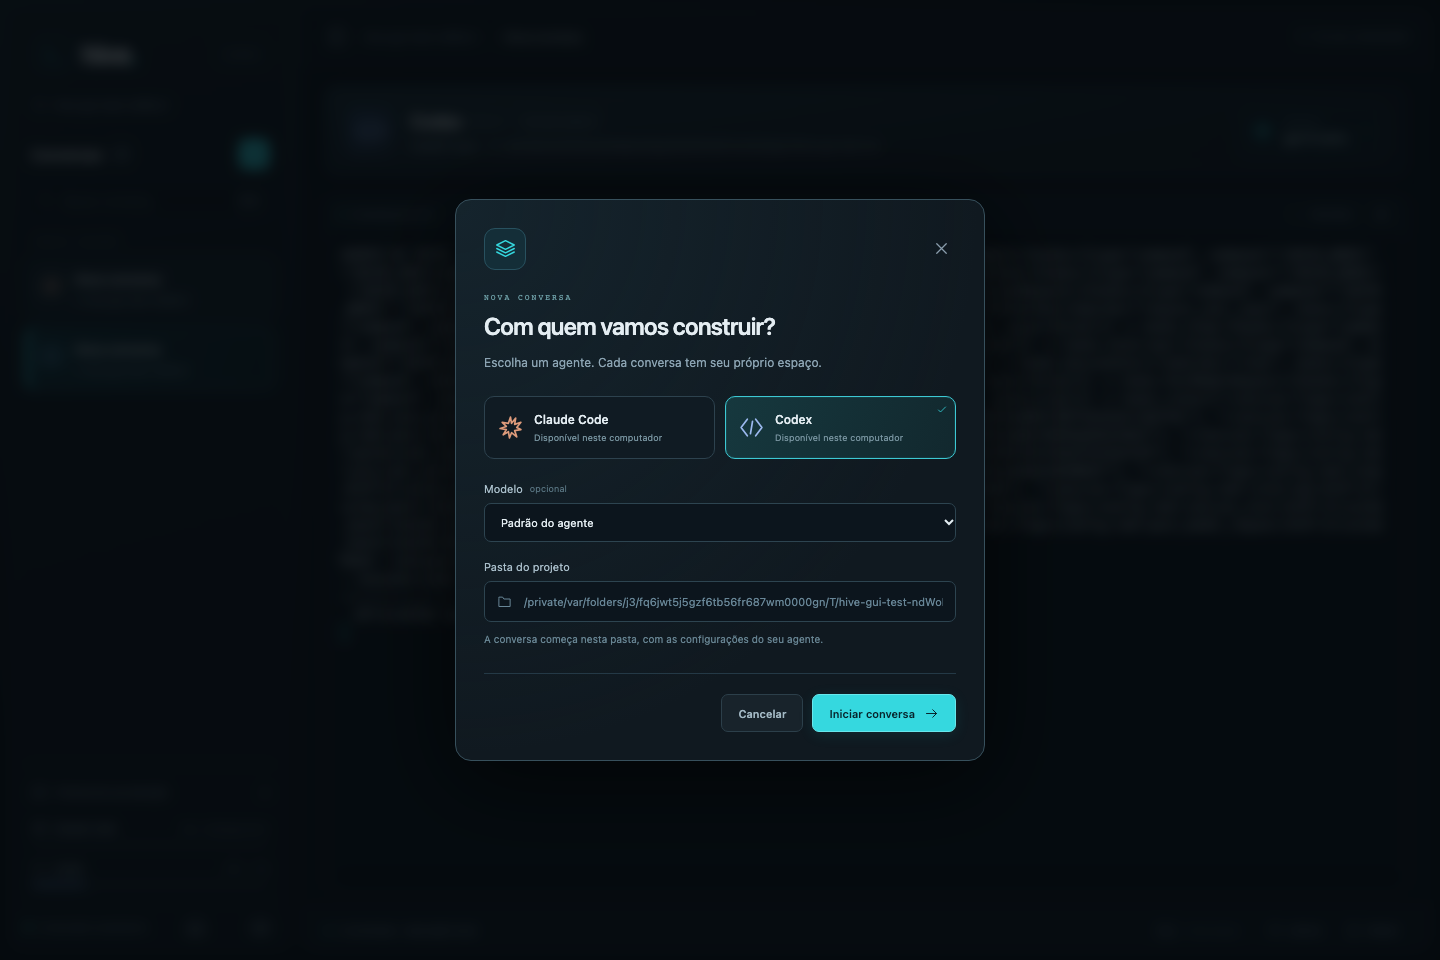
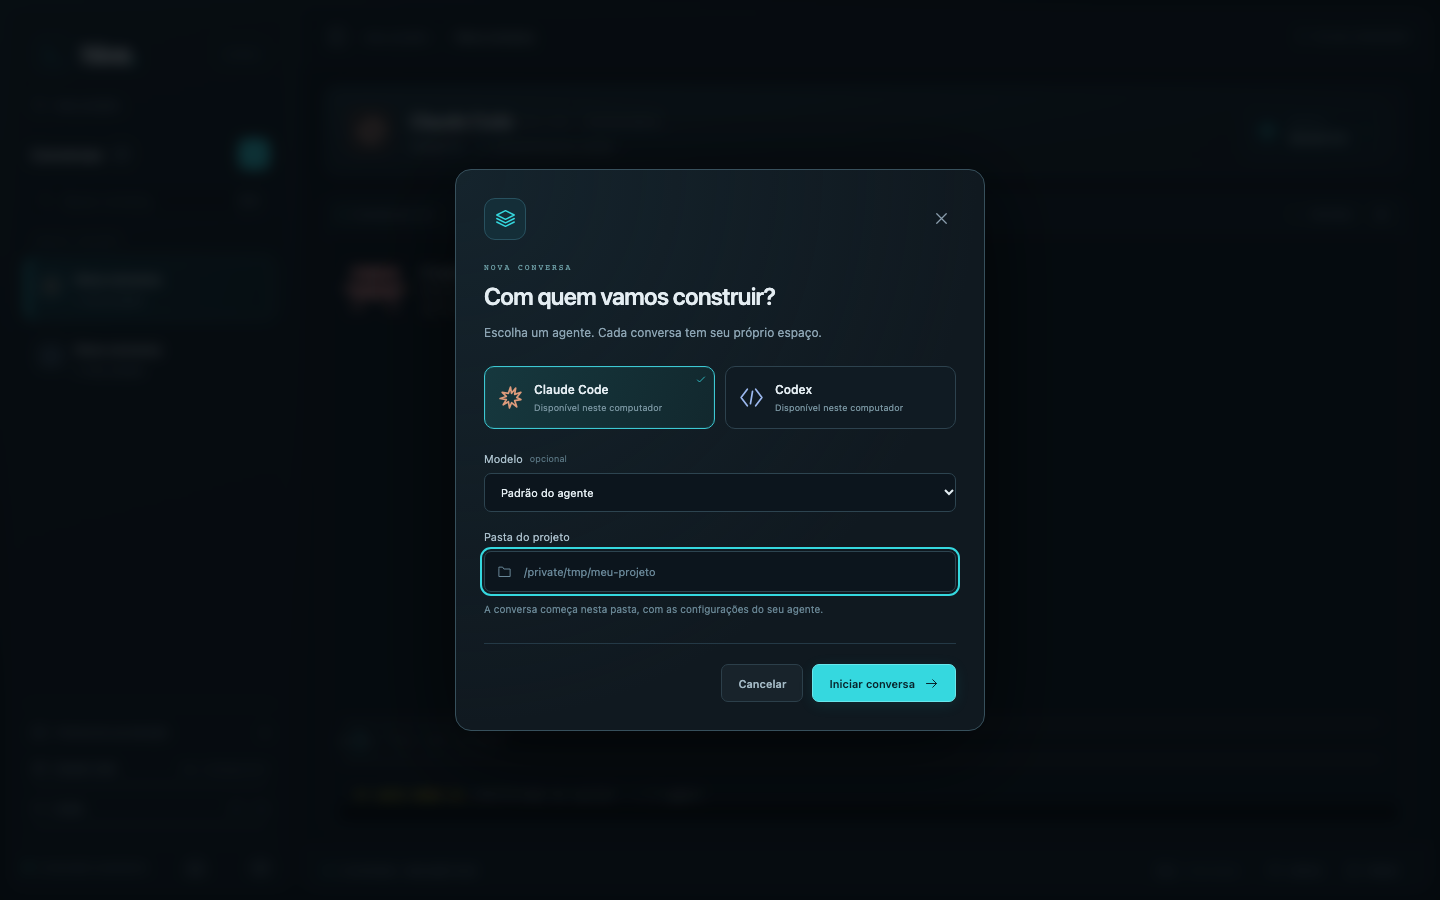
docs: troque as imagens do README por capturas da interface atual

Changed region(s): [[0.3125, 0.1867, 0.6562, 0.6844], [0.5, 0.7156, 0.6875, 0.8089], [0.625, 0.4667, 0.6562, 0.4978]]

diff --git a/test/gui/workspace.spec.js b/test/gui/workspace.spec.js
@@ -48,7 +48,6 @@ test('interface gráfica conecta agentes, preserva rascunho e troca modelos', as
 	await expect(page.getByText('Conectado localmente')).toBeVisible();
 	await expect(page.getByRole('heading', {name: 'Nenhuma conversa aberta'})).toBeVisible();
 	await expect(page.locator('#usage')).toContainText('Claude Code');
-	await page.screenshot({path: join(root, 'docs/gui-inicio.png')});
 	await page.getByRole('button', {name: 'Nova conversa', exact: true}).first().click();
 	await expect(page.getByRole('dialog')).toBeVisible();
 	await expect(page.getByLabel('Pasta do projeto', {exact: true})).toHaveValue(pasta);
@@ -98,9 +97,7 @@ test('interface gráfica conecta agentes, preserva rascunho e troca modelos', as
 		expect(execFileSync('tmux', ['-L', `hive-gui-${servidor.pid}`, 'list-panes', '-a', '-F', '#{pane_id} #{pane_pid} #{pane_current_path}'], {encoding: 'utf8'})).toBe(panesAntes);
 	}
 	await page.locator('.conversation-card').first().click();
-	await page.screenshot({path: join(root, 'docs/gui-conversa.png')});
 	await page.getByRole('button', {name: 'Nova conversa', exact: true}).first().click();
-	await page.screenshot({path: join(root, 'docs/gui-agentes.png')});
 	await page.keyboard.press('Escape');
 	await fetch(`${origin}/api/conversations`, {method: 'POST', headers: {Authorization: `Bearer ${key}`, 'Content-Type': 'application/json'}, body: JSON.stringify({agente: 'claude', pasta})});
 	await expect(page.locator('.conversation-card')).toHaveCount(3);
@@ -285,7 +282,6 @@ test('a interface abre em uma janela própria e o terminal funciona nela', async
 		await janela.locator('.xterm-helper-textarea').focus();
 		await janela.keyboard.type('janela-local-funcionando');
 		await expect(janela.locator('#terminal .xterm-screen')).toContainText('janela-local-funcionando');
-		await janela.screenshot({path: join(root, 'docs/gui-aplicativo.png')});
 	} finally { await aplicativo.close(); }
 });
 

diff --git a/README.md b/README.md
@@ -2,7 +2,7 @@
 
 Interface local para o [Claude Code](https://claude.com/claude-code) e o [Codex](https://github.com/openai/codex): uma janela própria com a lista de conversas ao lado, o terminal real de cada agente no centro, troca de modelo, ditado e leitura em voz alta. O visual e várias funções se inspiram no [workmux](https://github.com/raine/workmux).
 
-![Três conversas: uma esperando resposta, uma pronta e uma trabalhando; troca entre elas pela barra lateral](docs/demo.gif)
+![Hive com uma conversa do Claude Code e outra do Codex na barra lateral](docs/gui-conversa.png)
 
 - `hive` abre o aplicativo em uma janela própria, sem abrir o navegador.
 - Cada conversa é um agente real (`claude` ou `codex`) rodando em sua própria sessão; trocar de conversa não reinicia nem interrompe as outras.
@@ -82,9 +82,9 @@ Com o nvm, o `hive` fica preso à versão do Node em que o `npm link` rodou: dep
 3. Escolha o modelo (opcional) e a pasta de trabalho, e confirme. A conversa abre com o terminal do agente ao vivo.
 4. Escreva como em qualquer terminal do agente. Abra outras conversas com o **+**; trocar de cartão preserva o processo, a tela e o rascunho de cada uma.
 
-![Escolha de agente, modelo e pasta](docs/gui-agentes.png)
+![Tela inicial, sem conversas abertas](docs/gui-inicio.png)
 
-![Tela inicial do Hive](docs/gui-inicio.png)
+![Escolha de agente, modelo e pasta](docs/gui-agentes.png)
 
 ## Funcionalidades
 
@@ -95,11 +95,11 @@ Com o nvm, o `hive` fica preso à versão do Node em que o `npm link` rodou: dep
 - **Fechar:** o botão de fechar no terminal ou `Ctrl-W` encerra o processo do agente, sempre depois de uma confirmação. As outras conversas continuam. `/exit` no agente também encerra a conversa.
 - **Navegar:** clique no cartão, ou `Alt-↑`/`Alt-↓` para ir à anterior/próxima (dá a volta nas pontas).
 - **Buscar:** o campo "Buscar conversa…" da barra lateral filtra a lista pelo título, pelo agente e pela pasta.
-- A seta do cabeçalho (ícone de painel) esconde e mostra a barra lateral.
+- O ícone de painel, no alto da área principal, esconde e mostra a barra lateral.
 
 ### Status, título e pendências
 
-Cada cartão mostra o título, a pasta e o status: **Trabalhando**, **Aguardando você** (pergunta, permissão ou aprovação) ou **Pronto**. O título é o assunto que o agente dá à conversa; até ele dar um, vale a primeira mensagem. O botão **Precisa da sua atenção**, no pé da barra lateral, conta as conversas que esperam por você ou terminaram sem ser vistas e leva à próxima delas.
+Cada cartão mostra o título, a pasta e um ponto de status: **Trabalhando**, **Aguardando você** (pergunta, permissão ou aprovação) ou **Pronto** (passe o mouse sobre o ponto). Ao lado da pasta vai há quanto tempo a conversa está nesse status; se o Claude Code já editou arquivos nela, no lugar do tempo aparecem as linhas adicionadas e removidas (`+12 −3`), somadas por conversa (o Codex não informa isso). Uma bolinha marca a conversa que mudou fora da tela e ainda não foi aberta. O título é o assunto que o agente dá à conversa; até ele dar um, vale a primeira mensagem. O botão **Precisa da sua atenção**, no pé da barra lateral, conta as conversas que esperam por você ou terminaram sem ser vistas e leva à próxima delas.
 
 O status vem dos hooks de cada agente, passados só para a conversa aberta pelo Hive: nenhum arquivo do `~/.claude` ou `~/.codex` é alterado. Passar outro `--settings` ou desligar hooks nas suas configurações do Claude Code desativa título e status.
 
@@ -108,6 +108,8 @@ O status vem dos hooks de cada agente, passados só para a conversa aberta pelo 
 O cabeçalho mostra o agente, a versão, o plano, a pasta e o modelo em uso. Sem informação do agente, o modelo fica em "Identificando…": nada é presumido.
 
 O botão de modelo abre a troca **na mesma conversa**, preservando histórico, título, pasta e rascunho. No Claude, as opções são Padrão, Opus, Sonnet, Haiku ou outro ID; no Codex, o modelo identificado ou outro ID. As opções são aliases, sem presumir versões ou disponibilidade na conta. Aguarde a resposta ou resolva a interação pendente antes de trocar; falhas aparecem no seletor, e o cabeçalho só muda depois da confirmação do agente.
+
+![Troca de modelo na conversa atual](docs/gui-modelo.png)
 
 A troca usa `/model` e o editor externo nativo (`Ctrl-G`) para guardar e restaurar o rascunho. Requer Claude Code **2.1.311+** ou Codex CLI **0.167.0+**. Fora da troca, o `VISUAL`/`EDITOR` configurado continua valendo. O Codex aplica a escolha só à sessão; o Claude Code 2.1.311 também a salva como padrão para sessões futuras, como o próprio agente informa. Se o agente fechar durante a restauração, a mensagem de erro indica o arquivo temporário com o rascunho.
 
@@ -121,7 +123,7 @@ O ícone de notificações no rodapé da barra lateral liga os avisos do aplicat
 
 ### Imagens
 
-Cole (`Cmd-V`) ou solte uma imagem no terminal de uma conversa: o Hive a salva numa pasta temporária do sistema e escreve o caminho no campo do agente, que a lê. Vale para várias imagens de uma vez. Outros tipos de arquivo não são aceitos. A pasta temporária é apagada ao encerrar o aplicativo.
+Cole (`Cmd-V`) ou solte uma imagem no terminal de uma conversa: o Hive a salva numa pasta temporária do sistema e escreve o caminho no campo do agente, que a lê. Vale para várias imagens de uma vez, em PNG, JPEG, GIF ou WebP, de até 20 MB cada. Outros tipos de arquivo não são aceitos. A pasta temporária é apagada ao encerrar o aplicativo.
 
 ### Mac acordado
 
@@ -143,6 +145,8 @@ O ícone de teclado no rodapé da barra lateral lista os atalhos. Valem com o fo
 | `Ctrl-Q` | liga / desliga o ditado (nada é enviado sozinho) |
 | `Alt-V` | liga / desliga a leitura em voz alta |
 | `Esc` | interrompe o agente e cala a leitura (chega ao agente) |
+
+![Diálogo de atalhos do aplicativo](docs/gui-atalhos.png)
 
 `Alt-↑`/`↓` só funcionam fora de campos de texto. As teclas do agente (`Ctrl-C`, `Ctrl-R`, setas, etc.) seguem direto para ele. No [modo terminal](#modo-terminal), os atalhos são outros.
 
@@ -167,8 +171,6 @@ Enquanto a voz natural baixa, ou se o download falhar, a leitura usa a voz pt-br
 
 **Ditado** no rodapé (ou `Ctrl-Q`) liga o microfone: o que você fala vai sendo digitado no campo de mensagem da conversa da tela, uma frase por vez, a cada pausa. Nada é enviado sozinho: revise e aperte `Enter`.
 
-![Ctrl-Q liga o microfone e o que é dito aparece no campo de mensagem do Claude Code](docs/ditado.gif)
-
 - **Parar:** clicar de novo ou `Ctrl-Q` param de ouvir (o que já foi dito ainda é digitado). Enviar a mensagem e 20 segundos sem fala também param.
 - **Escolhas:** se a conversa espera uma escolha sua (permissão, pergunta), o que você ditar fica guardado até o campo de mensagem voltar, para nenhuma palavra ser tomada como resposta.
 - **Enquanto ouve:** a leitura em voz alta fica muda, para o ditado não transcrever a voz do agente.
@@ -177,8 +179,6 @@ Enquanto a voz natural baixa, ou se o download falhar, a leitura usa a voz pt-br
 ## Modo terminal
 
 `hive --terminal` abre a interface dentro do terminal: um tmux com a barra lateral à esquerda (Node + [Ink](https://github.com/vadimdemedes/ink)) e o agente ao lado. Os argumentos vão para o Claude Code (`hive --terminal --continue`, `hive --terminal "corrige o teste"`). Fechar o terminal encerra tudo: conversas, barra lateral e o tmux por trás.
-
-![Modo terminal: sidebar com uma conversa nova e o Claude Code ao lado](docs/inicio.png)
 
 O modo terminal tem o conjunto de funções que vieram primeiro: status por conversa (`✓` pronta, `?` esperando, spinner trabalhando), título, pasta e linhas adicionadas/removidas por conversa (`+12 -3`), conversas do Codex (`c` no sidebar), troca de modelo, uso do plano em anel, leitura em voz alta, ditado, aviso sonoro e no Dock (o sino do terminal), sidebar ajustável e Mac acordado.
 
